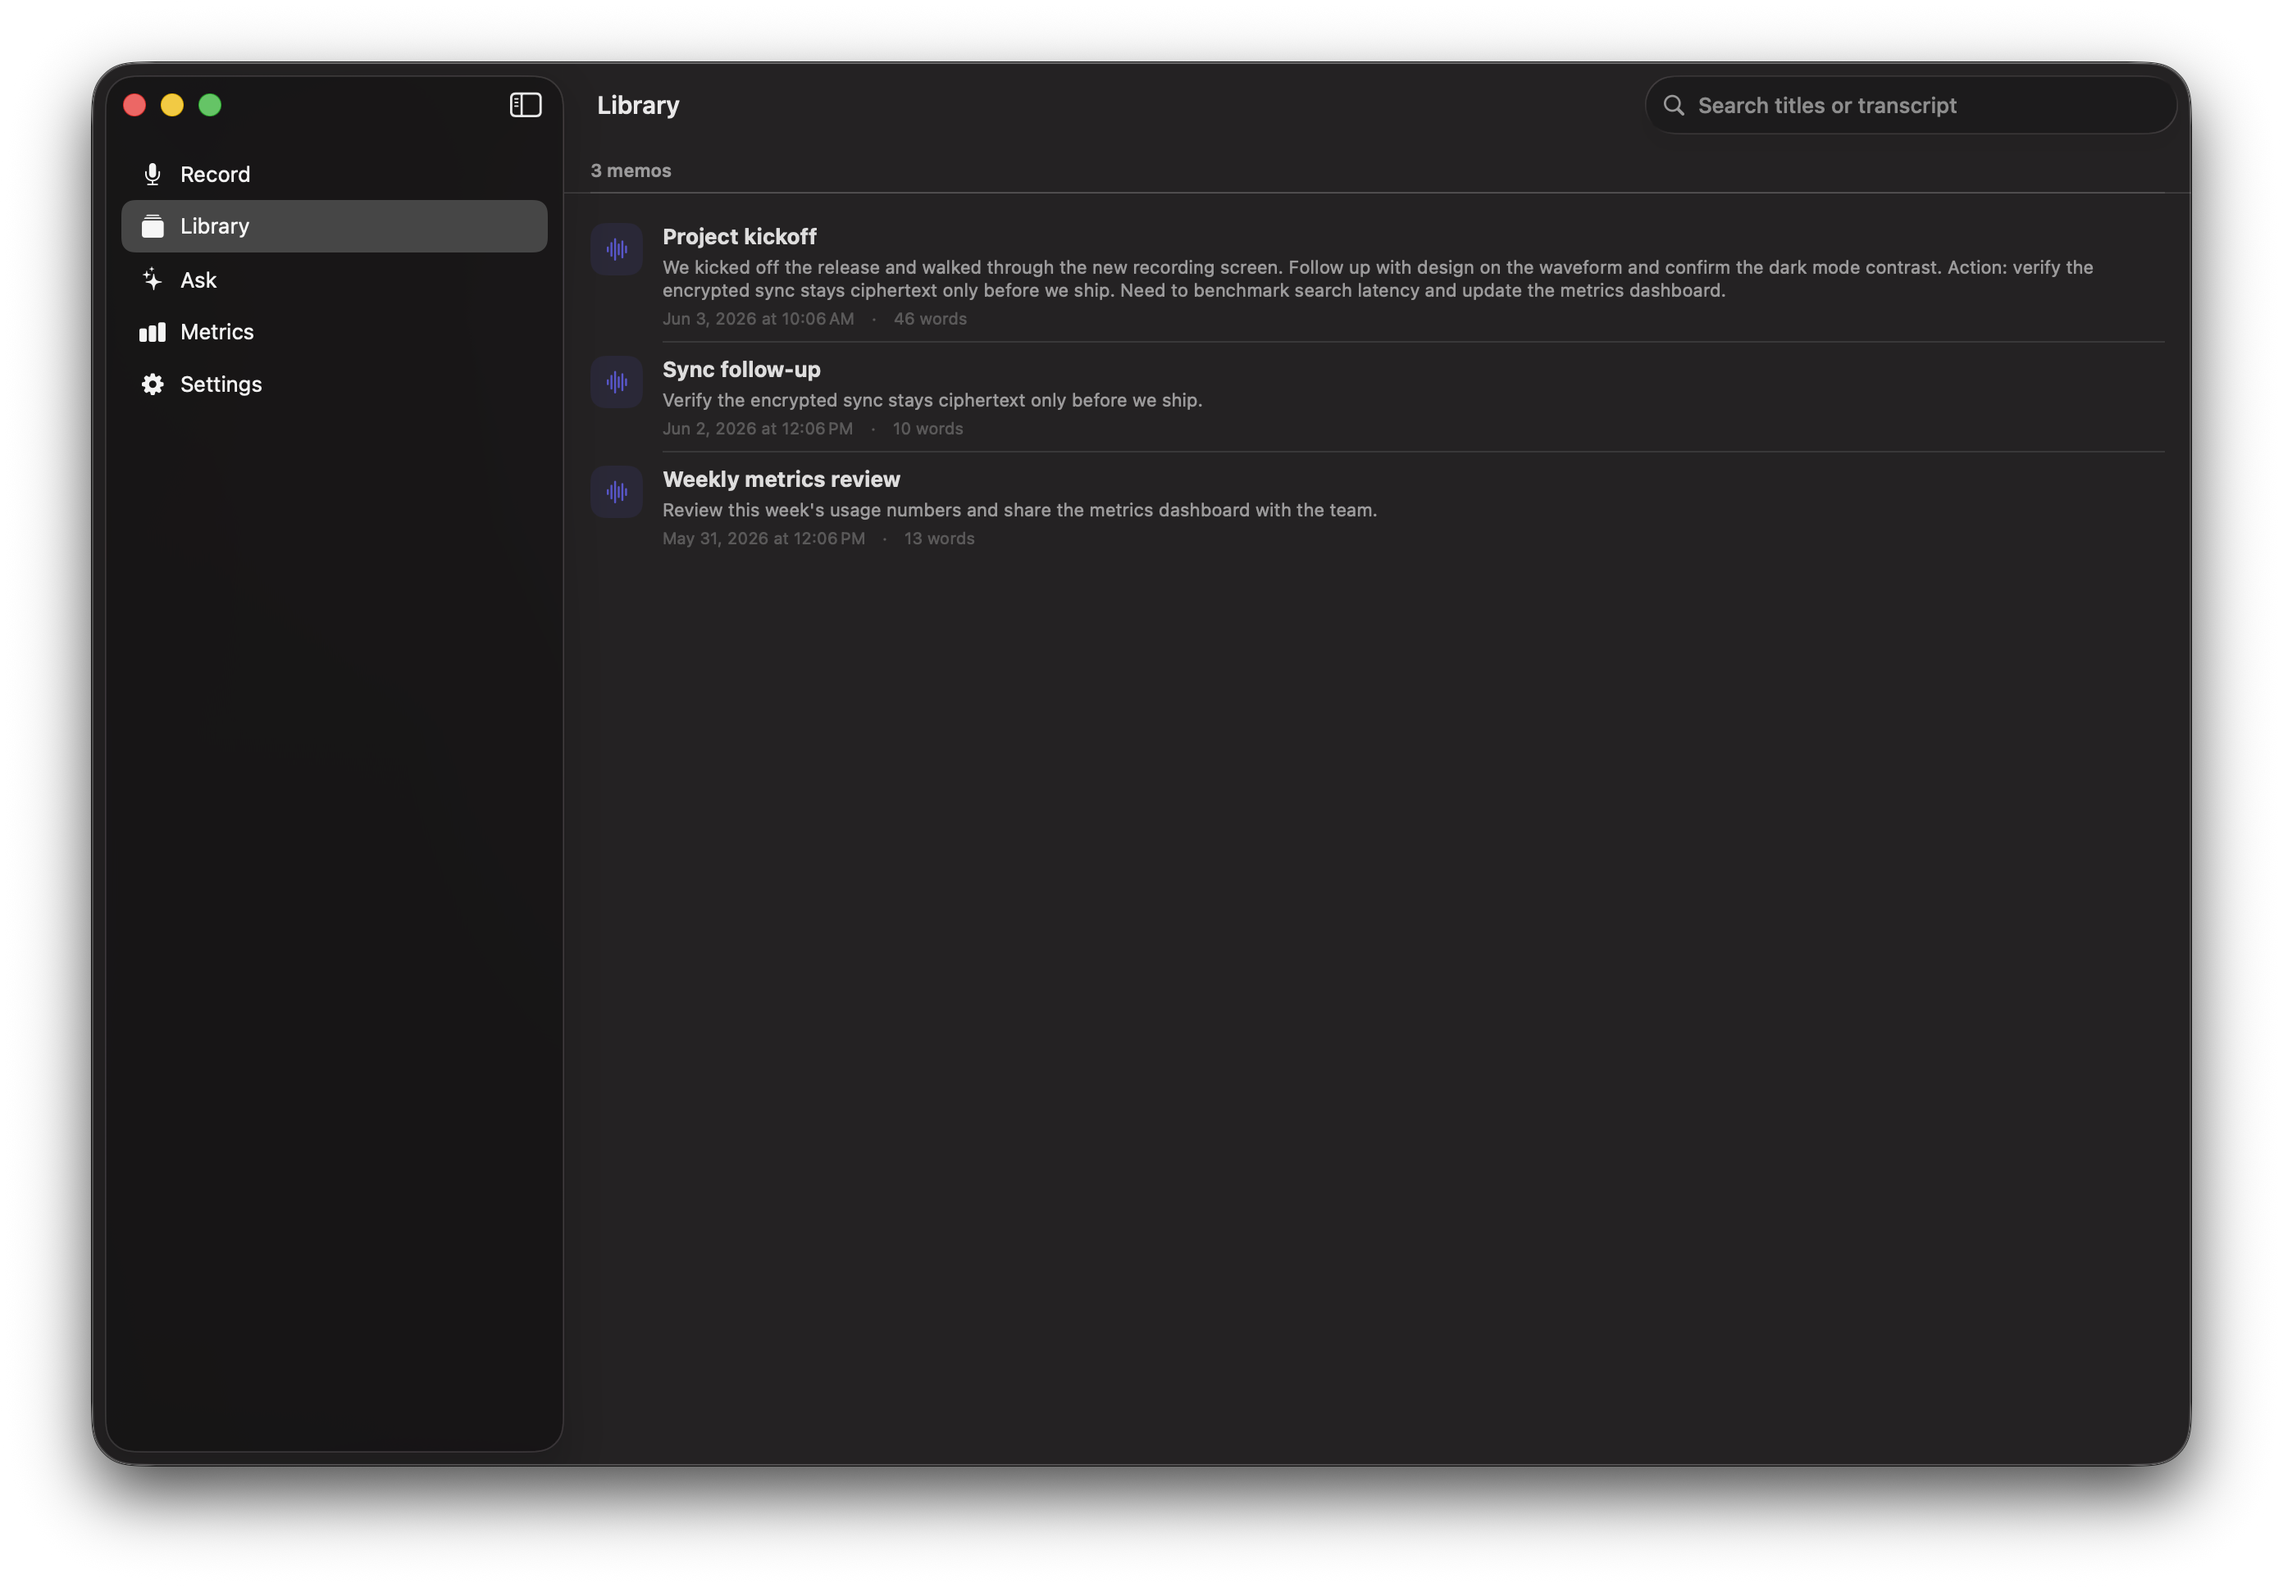
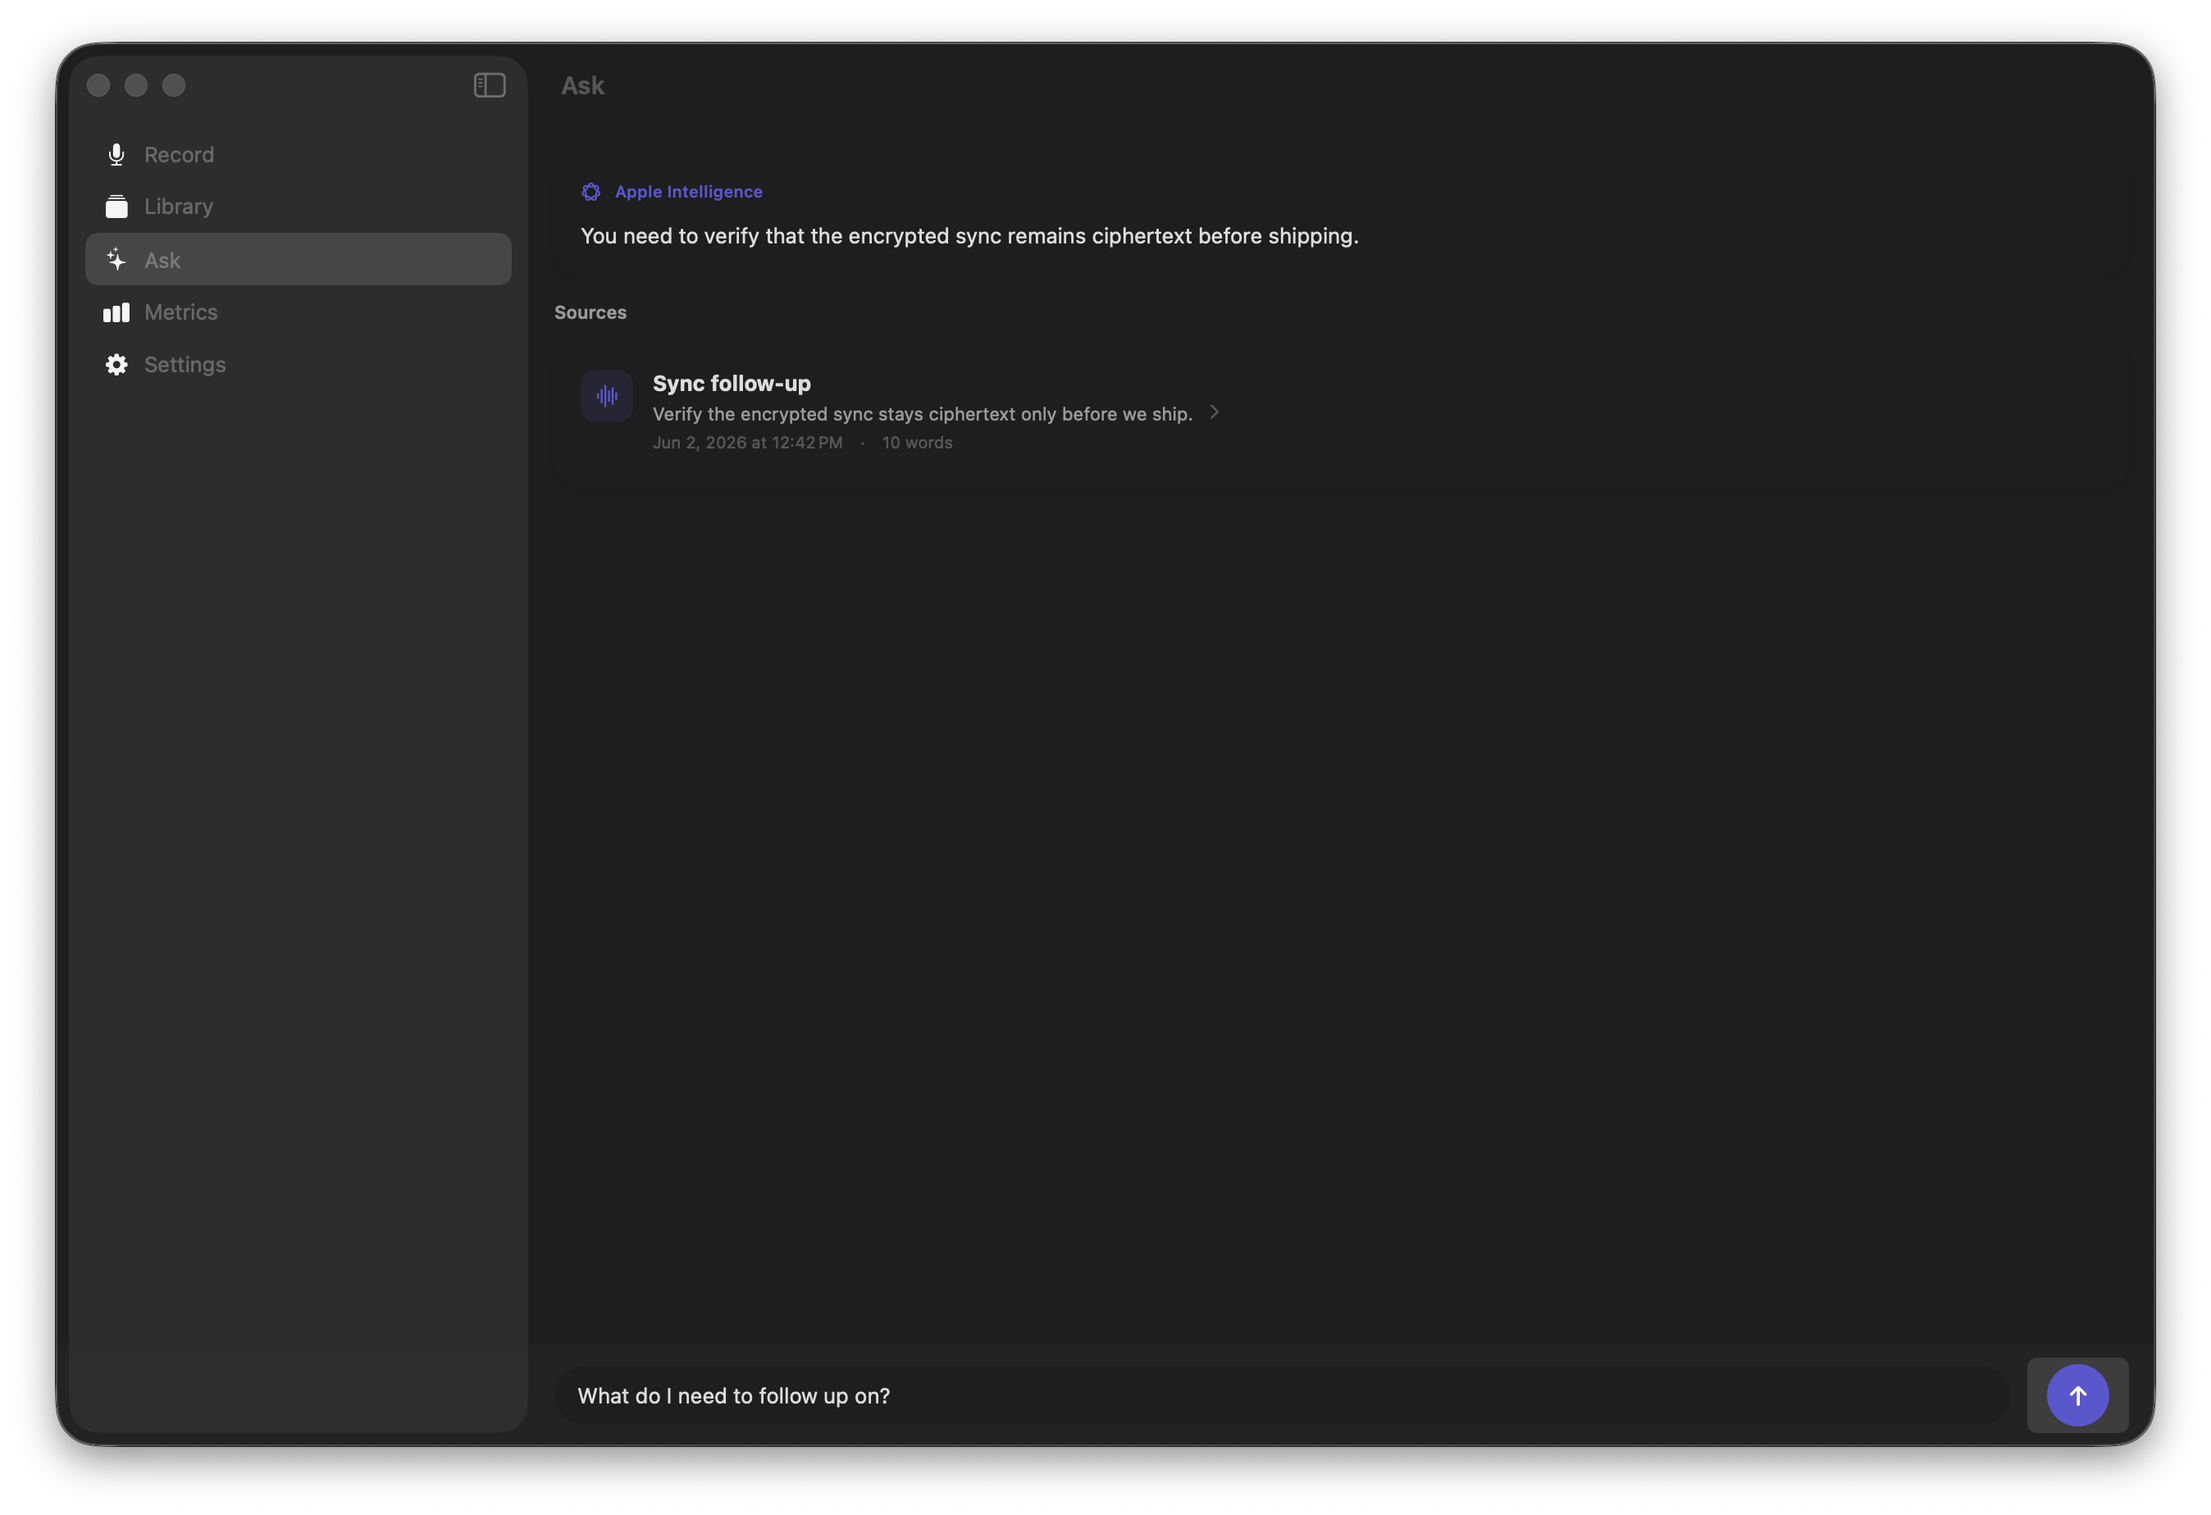
tune rag prompt for fuller answers; capture real apple intelligence answer on mac

Changed region(s): [[0.0, 0.0, 0.997, 0.987]]

diff --git a/MurmurCore/Sources/MurmurCore/Summarization/MemoAnswerService.swift b/MurmurCore/Sources/MurmurCore/Summarization/MemoAnswerService.swift
@@ -48,10 +48,12 @@ public struct MemoAnswerService: Sendable {
         return Answer(text: Self.extractiveAnswer(for: sources), sources: sources, usedAppleIntelligence: false)
     }
 
-    /// Semantic-first retrieval with a keyword fallback.
+    /// Semantic-first retrieval with a keyword fallback. For RAG we keep the
+    /// top-k most relevant memos (no hard threshold) so the model has enough
+    /// grounding context to synthesize a complete answer.
     private func retrieve(_ query: String, over memos: [Memo], limit: Int) -> [Memo] {
         if semanticIndex.isAvailable {
-            let semantic = semanticIndex.rankedMemos(query, in: memos, limit: limit, threshold: 0.15)
+            let semantic = semanticIndex.rankedMemos(query, in: memos, limit: limit)
             if !semantic.isEmpty { return semantic }
         }
         var index = MemoSearchIndex()
@@ -82,12 +84,13 @@ extension MemoAnswerService {
         let session = LanguageModelSession(
             instructions: """
             You answer questions using only the user's voice memos provided as context. \
-            Be concise. If the memos do not contain the answer, say so plainly. \
-            Never invent details that are not in the context.
+            Reply with one to three complete, specific sentences that summarize the \
+            relevant points from the memos. If the memos do not contain the answer, \
+            say so plainly. Never invent details that are not in the context.
             """
         )
         let response = try await session.respond(
-            to: "Context memos:\n\(context)\n\nQuestion: \(question)\n\nAnswer:"
+            to: "Context memos:\n\(context)\n\nQuestion: \(question)"
         )
         return response.content
     }

diff --git a/README.md b/README.md
@@ -19,9 +19,13 @@ powers every platform; the UI is built natively in SwiftUI.
 Apple's foundation model; Insights (summary, action items, topics) are generated
 on device too. Both degrade gracefully when Apple Intelligence is unavailable.*
 
-### Mac
+### Mac — Ask, answered by Apple Intelligence
 
-![macOS](docs/screenshots/macos.png)
+![macOS Ask with Apple Intelligence](docs/screenshots/macos.png)
+
+*Real output from Apple's on-device foundation model on an Apple
+Intelligence–enabled Mac: the question is answered from the user's own memos
+(retrieved semantically) and cited — nothing leaves the device.*
 
 ### Apple Watch
 
